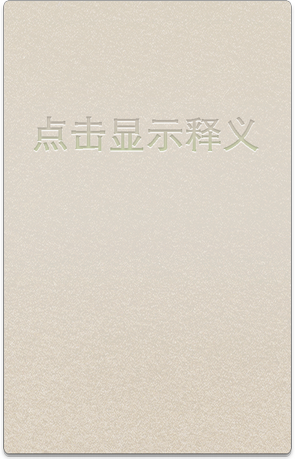
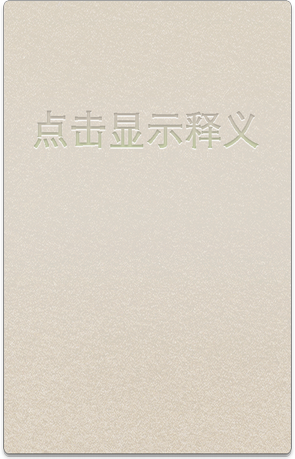
切换controller的时候bug fixed，tapCover修改，ios5适配

Changed region(s): [[0.0915, 0.244, 0.8847, 0.3355]]

diff --git a/GreWords/GreWords/PresentationLayer/WordDetail/WordDetailViewController.m b/GreWords/GreWords/PresentationLayer/WordDetail/WordDetailViewController.m
@@ -151,9 +151,9 @@
     _RightButton.userInteractionEnabled = NO;
     _WrongButton.userInteractionEnabled = NO;
     _showMeaningButton.userInteractionEnabled = YES;
+    _WordParaphraseView.userInteractionEnabled = NO;
 
     self.dashboardVC = [DashboardViewController instance];
-    _showMeaningButton.userInteractionEnabled = YES;
 }
 
 -(void)viewWillAppear:(BOOL)animated
@@ -179,9 +179,42 @@
 
 - (void)ShowMeaning
 {
-    [self AddShadows];
-    [self Show_RightAnimation];
-    [self Show_WrongAnimation];
+    if (SYSTEM_VERSION_LESS_THAN(@"6.0")) {
+        [self AddShadows];
+        _showMeaningButton.userInteractionEnabled = NO;
+        _RightButton.userInteractionEnabled = YES;
+        _WrongButton.userInteractionEnabled = YES;
+        _WordParaphraseView.userInteractionEnabled = YES;
+        if (_RightUpImageView == nil) {
+            _RightUpImageView = [[UIImageView alloc] initWithImage:[UIImage imageNamed:@"learning_right_up.png"]];
+            [_RightUpImageView setFrame:CGRectMake(230, self.view.frame.size.height-72, _RightUpImageView.frame.size.width, _RightUpImageView.frame.size.height-1)];
+            _RightUpImageView.layer.anchorPoint = CGPointMake(0.5, 1);
+            [self.view addSubview:_RightUpImageView];
+        }
+        if (_WrongUpImageView == nil) {
+            _WrongUpImageView = [[UIImageView alloc] initWithImage:[UIImage imageNamed:@"learning_wrong_up.png"]];
+            [_WrongUpImageView setFrame:CGRectMake(49, self.view.frame.size.height-76, _WrongUpImageView.frame.size.width, _WrongUpImageView.frame.size.height-1)];
+            _WrongUpImageView.layer.anchorPoint = CGPointMake(0.5, 1);
+            [self.view addSubview:_WrongUpImageView];
+        }
+        if (_RightDownImageView == nil) {
+            _RightDownImageView = [[UIImageView alloc] initWithImage:[UIImage imageNamed:@"learning_right_down.png"]];
+            [_RightDownImageView setFrame:CGRectMake(217, self.view.frame.size.height-78, _RightDownImageView.frame.size.width, _RightDownImageView.frame.size.height-1)];
+            _RightDownImageView.layer.anchorPoint = CGPointMake(0.5, 0);
+            [self.view addSubview:_RightDownImageView];
+        }
+        if (_WrongDownImageView == nil) {
+            _WrongDownImageView = [[UIImageView alloc] initWithImage:[UIImage imageNamed:@"learning_wrong_down.png"]];
+            [_WrongDownImageView setFrame:CGRectMake(27, self.view.frame.size.height-78, _WrongDownImageView.frame.size.width, _WrongDownImageView.frame.size.height-1)];
+            _WrongDownImageView.layer.anchorPoint = CGPointMake(0.5, 0);
+            [self.view addSubview:_WrongDownImageView];
+        }
+    }
+    if (SYSTEM_VERSION_GREATER_THAN_OR_EQUAL_TO(@"6.0")) {
+        [self AddShadows];
+        [self Show_RightAnimation];
+        [self Show_WrongAnimation];
+    }
 }
 
 - (void)DontShowMeaning
@@ -248,6 +281,7 @@
     _RightButton.userInteractionEnabled = NO;
     _WrongButton.userInteractionEnabled = NO;
     _showMeaningButton.userInteractionEnabled = NO;
+    _WordParaphraseView.userInteractionEnabled = YES;
     
     //[self Show_RightAnimationWith:_RightUpImageView4 and:_RightDownImageView4 atTime:CACurrentMediaTime() withString:@"Show_removeRightImage4"];
     //[self Show_RightAnimationWith:_RightUpImageView3 and:_RightDownImageView3 atTime:CACurrentMediaTime()+0.13f withString:@"Show_removeRightImage3"];
@@ -376,6 +410,7 @@
     _RightButton.userInteractionEnabled = NO;
     _WrongButton.userInteractionEnabled = NO;
     _showMeaningButton.userInteractionEnabled = NO;
+    _WordParaphraseView.userInteractionEnabled = YES;
     
     //[self Show_WrongAnimationWith:_WrongUpImageView4 and:_WrongDownImageView4 atTime:CACurrentMediaTime() withString:@"Show_removeWrongImage4"];
     //[self Show_WrongAnimationWith:_WrongUpImageView3 and:_WrongDownImageView3 atTime:CACurrentMediaTime()+0.13f withString:@"Show_removeWrongImage3"];
@@ -578,6 +613,7 @@
     _RightButton.userInteractionEnabled = NO;
     _WrongButton.userInteractionEnabled = NO;
     _showMeaningButton.userInteractionEnabled = NO;
+    _WordParaphraseView.userInteractionEnabled = NO;
     
     //[self Dismiss_RightAnimationWith:_RightUpImageView4 and:_RightDownImageView4 atTime:CACurrentMediaTime() withString:@"Dismiss_removeRightImage4"];
     //[self Dismiss_RightAnimationWith:_RightUpImageView3 and:_RightDownImageView3 atTime:CACurrentMediaTime()+0.13f withString:@"Dismiss_removeRightImage3"];
@@ -706,6 +742,7 @@
     _RightButton.userInteractionEnabled = NO;
     _WrongButton.userInteractionEnabled = NO;
     _showMeaningButton.userInteractionEnabled = NO;
+    _WordParaphraseView.userInteractionEnabled = NO;
     
     //[self Dismiss_WrongAnimationWith:_WrongUpImageView4 and:_WrongDownImageView4 atTime:CACurrentMediaTime() withString:@"removeRightImage4"];
     //[self Dismiss_RightAnimationWith:_WrongUpImageView3 and:_WrongDownImageView3 atTime:CACurrentMediaTime()+0.13f withString:@"removeRightImage3"];
@@ -864,7 +901,6 @@
         _WrongDownImageView0 = nil;
         [_WrongUpImageView0 removeFromSuperview];
         _WrongUpImageView0 = nil;
-        
         if (_WrongDownImageView == nil) {
             _WrongDownImageView = [[UIImageView alloc] initWithImage:[UIImage imageNamed:@"learning_wrong_down.png"]];
             [_WrongDownImageView setFrame:CGRectMake(27, self.view.frame.size.height-78, _WrongDownImageView.frame.size.width, _WrongDownImageView.frame.size.height-1)];
@@ -872,6 +908,7 @@
             [self.view addSubview:_WrongDownImageView];
         }
         _WrongButton.userInteractionEnabled = YES;
+        _WordParaphraseView.userInteractionEnabled = YES;
         
         
         if(![[ConfigurationHelper instance] guideForTypeHasShown:GuideType_ReviewSecond])
@@ -922,6 +959,7 @@
         }
         
         _showMeaningButton.userInteractionEnabled = YES;
+        _WordParaphraseView.userInteractionEnabled = YES;
         
     }
     
@@ -964,6 +1002,7 @@
         }
         
         _showMeaningButton.userInteractionEnabled = YES;
+        _WordParaphraseView.userInteractionEnabled = NO;
 
     }
 }
@@ -978,7 +1017,9 @@
     [self.showMeaningImageView setFrame:CGRectMake( 8, 100, 304.0, 460.0)];
     [self.view insertSubview:self.showMeaningImageView aboveSubview:self.WordParaphraseView];
     
-    [self.showMeaningButton addTarget:self action:@selector(showButtonPressed) forControlEvents:UIControlEventTouchUpInside];
+    [self.showMeaningButton addTarget:self action:@selector(showButtonTouchUpInside) forControlEvents:UIControlEventTouchUpInside];
+    [self.showMeaningButton addTarget:self action:@selector(showButtonTouchDown) forControlEvents:UIControlEventTouchDown];
+    [self.showMeaningButton addTarget:self action:@selector(showButtonTouchUpOutside) forControlEvents:UIControlEventTouchUpOutside];
     if (iPhone5) {
         [self.showMeaningButton setFrame:CGRectMake( 8, 100, 304.0, 337.0)];
     }else{
@@ -988,12 +1029,22 @@
     [self.view addSubview:self.showMeaningButton];
 }
 
-- (void)showButtonPressed
+- (void)showButtonTouchUpInside
 {
     [self.showMeaningImageView removeFromSuperview];
     [self.showMeaningButton removeFromSuperview];
     self.showMeaningButton = nil;
     [self ShowMeaning];
+}
+
+- (void)showButtonTouchDown
+{
+    [_showMeaningImageView setImage:[UIImage imageNamed:@"learning_tapCover2.png"]];
+}
+
+- (void)showButtonTouchUpOutside
+{
+    [_showMeaningImageView setImage:[UIImage imageNamed:@"learning_tapCover.png"]];
 }
 
 - (IBAction)rightButtonPushed:(id)sender {
@@ -1019,8 +1070,8 @@
 
     WordEntity *word = [[WordHelper instance] wordWithID:[[[[WordTaskGenerator instance] newWordTask_twoList:self.day] objectAtIndex:self.indexOfWordIDToday] intValue]];
     [word didMakeAMistakeOnDate:[NSDate new]];
-    [self nextButtonPushed];
     self.wrongWordCount ++;
+    [self nextButtonPushed];
 }
 
 - (void)newWordCompleted
@@ -1046,9 +1097,34 @@
         }
         [self dismissModalViewControllerAnimated:NO];
     } else {
-        [self Dismiss_RightAnimation];
-        [self Dismiss_WrongAnimation];
-        [self loadWord:self.indexOfWordIDToday];
+        if (SYSTEM_VERSION_LESS_THAN(@"6.0")) {
+            [self loadWord:self.indexOfWordIDToday];
+            _showMeaningButton.userInteractionEnabled = YES;
+            _RightButton.userInteractionEnabled = NO;
+            _WrongButton.userInteractionEnabled = NO;
+            _WordParaphraseView.userInteractionEnabled = NO;
+            if (_RightUpImageView != nil) {
+                [_RightUpImageView removeFromSuperview];
+                _RightUpImageView = nil;
+            }
+            if (_WrongUpImageView != nil) {
+                [_WrongUpImageView removeFromSuperview];
+                _WrongUpImageView = nil;
+            }
+            if (_RightDownImageView != nil) {
+                [_RightDownImageView removeFromSuperview];
+                _RightDownImageView = nil;
+            }
+            if (_WrongDownImageView != nil) {
+                [_WrongDownImageView removeFromSuperview];
+                _WrongDownImageView = nil;
+            }
+        }
+        if (SYSTEM_VERSION_GREATER_THAN_OR_EQUAL_TO(@"6.0")) {
+            [self loadWord:self.indexOfWordIDToday];
+            [self Dismiss_RightAnimation];
+            [self Dismiss_WrongAnimation];
+        }
     }
 }
 
